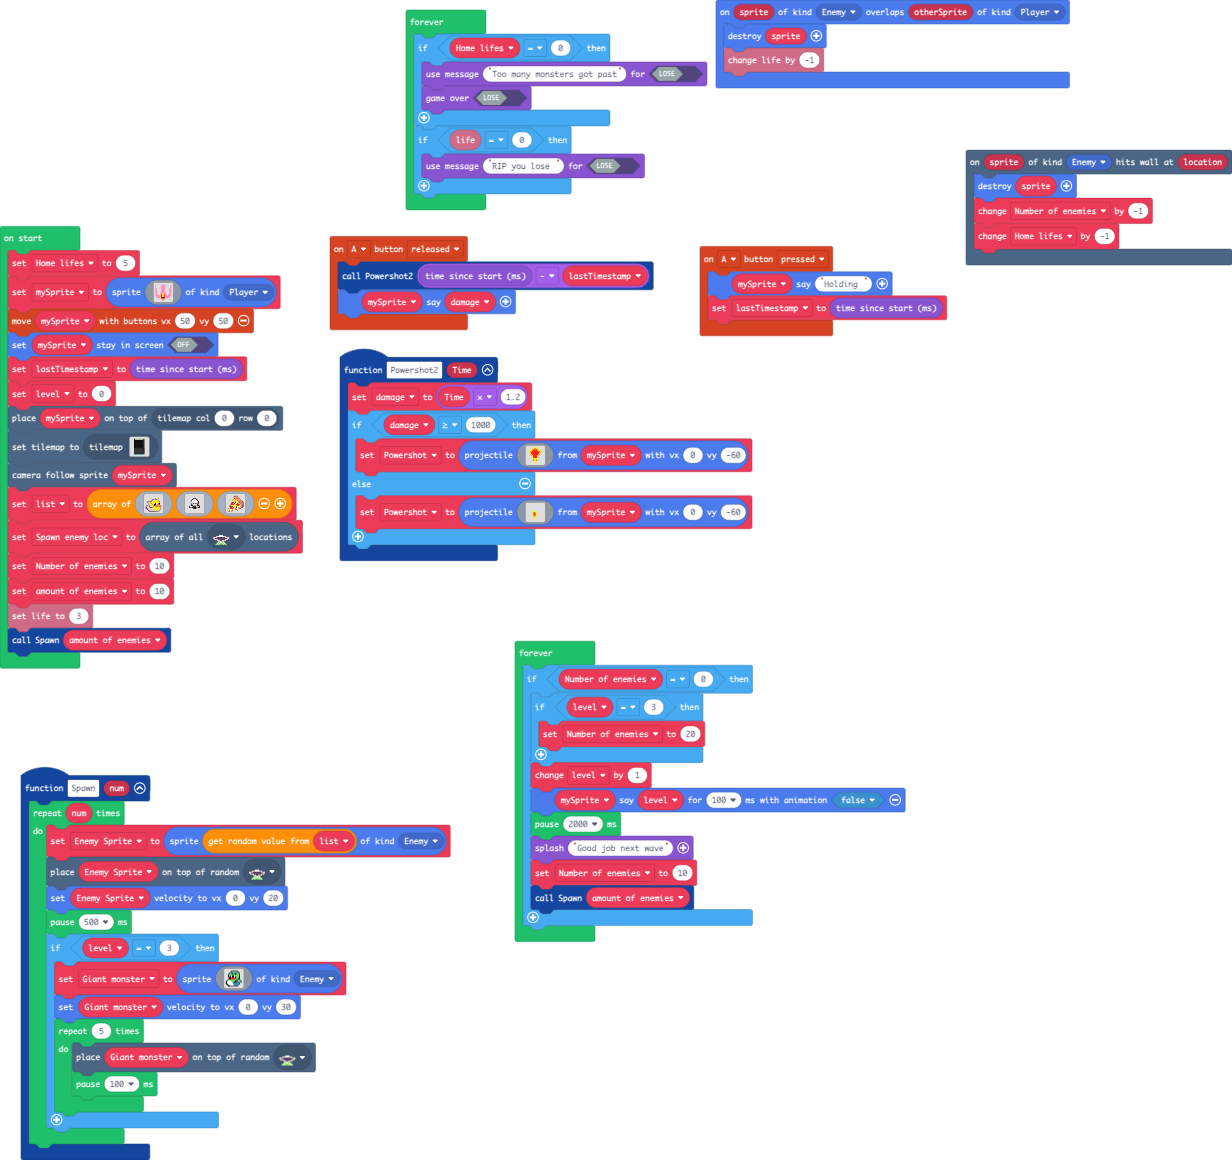
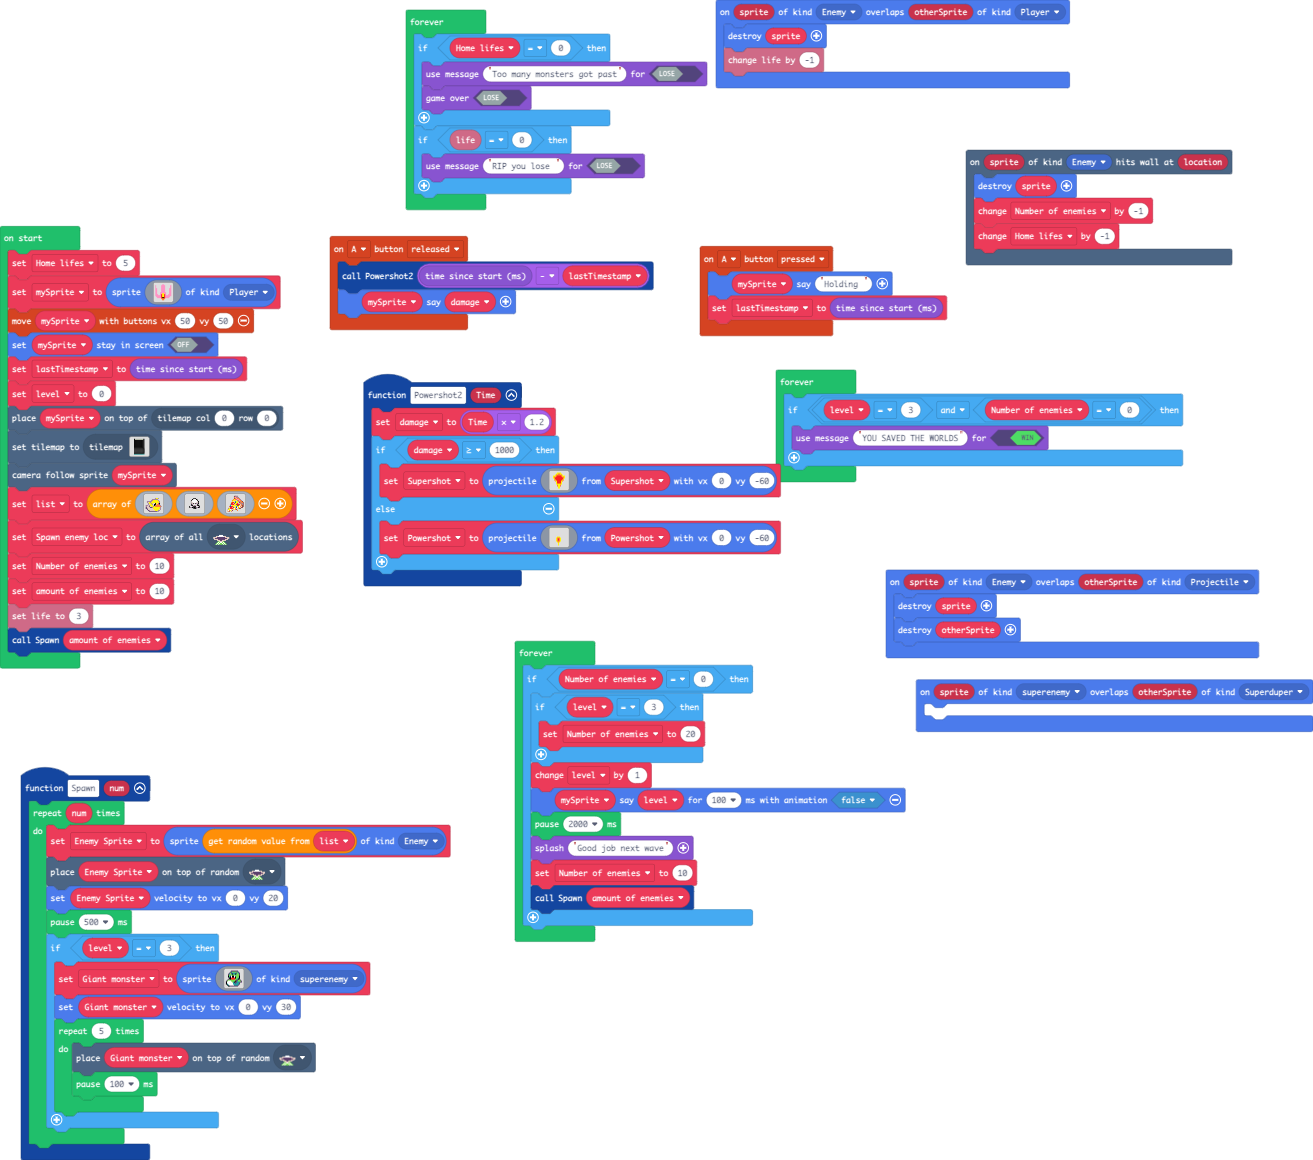
Update main.blocks, main.ts

diff --git a/main.ts b/main.ts
@@ -1,6 +1,14 @@
+namespace SpriteKind {
+    export const superenemy = SpriteKind.create()
+    export const Superduper = SpriteKind.create()
+}
 controller.A.onEvent(ControllerButtonEvent.Pressed, function () {
     mySprite.sayText("Holding ")
     lastTimestamp = game.runtime()
+})
+sprites.onOverlap(SpriteKind.Enemy, SpriteKind.Projectile, function (sprite, otherSprite) {
+    sprites.destroy(sprite)
+    sprites.destroy(otherSprite)
 })
 scene.onHitWall(SpriteKind.Enemy, function (sprite, location) {
     sprites.destroy(sprite)
@@ -10,7 +18,7 @@ scene.onHitWall(SpriteKind.Enemy, function (sprite, location) {
 function Powershot2 (Time: number) {
     damage = Time * 1.2
     if (damage >= 1000) {
-        Powershot = sprites.createProjectileFromSprite(img`
+        Supershot = sprites.createProjectileFromSprite(img`
             . . . . . . 5 5 5 5 . . . . . . 
             . . . . . 5 5 4 4 5 5 . . . . . 
             . . . . 5 4 4 4 4 4 4 5 . . . . 
@@ -27,7 +35,7 @@ function Powershot2 (Time: number) {
             . . . . . . 4 5 5 4 . . . . . . 
             . . . . . . . 5 5 . . . . . . . 
             . . . . . . . 5 5 . . . . . . . 
-            `, mySprite, 0, -60)
+            `, Supershot, 0, -60)
     } else {
         Powershot = sprites.createProjectileFromSprite(img`
             . . . . . . . . . . . . . . . . 
@@ -46,7 +54,7 @@ function Powershot2 (Time: number) {
             . . . . . . . 5 . . . . . . . . 
             . . . . . . . 5 . . . . . . . . 
             . . . . . . . 5 . . . . . . . . 
-            `, mySprite, 0, -60)
+            `, Powershot, 0, -60)
     }
 }
 controller.A.onEvent(ControllerButtonEvent.Released, function () {
@@ -81,7 +89,7 @@ function Spawn (num: number) {
                 f 6 1 1 1 1 1 6 6 6 6 6 6 c . . 
                 . f 6 1 1 1 1 1 6 6 6 6 c . . . 
                 . . f f c c c c c c c c . . . . 
-                `, SpriteKind.Enemy)
+                `, SpriteKind.superenemy)
             Giant_monster.setVelocity(0, 30)
             for (let index = 0; index < 5; index++) {
                 tiles.placeOnRandomTile(Giant_monster, assets.tile`myTile0`)
@@ -90,9 +98,13 @@ function Spawn (num: number) {
         }
     }
 }
+sprites.onOverlap(SpriteKind.superenemy, SpriteKind.Superduper, function (sprite, otherSprite) {
+	
+})
 let Giant_monster: Sprite = null
 let Enemy_Sprite: Sprite = null
 let Powershot: Sprite = null
+let Supershot: Sprite = null
 let damage = 0
 let list: Image[] = []
 let level = 0
@@ -212,6 +224,11 @@ forever(function () {
     }
     if (info.life() == 0) {
         game.setGameOverMessage(false, "RIP you lose ")
+    }
+})
+forever(function () {
+    if (level == 3 && Number_of_enemies == 0) {
+        game.setGameOverMessage(true, "YOU SAVED THE WORLDS")
     }
 })
 forever(function () {
